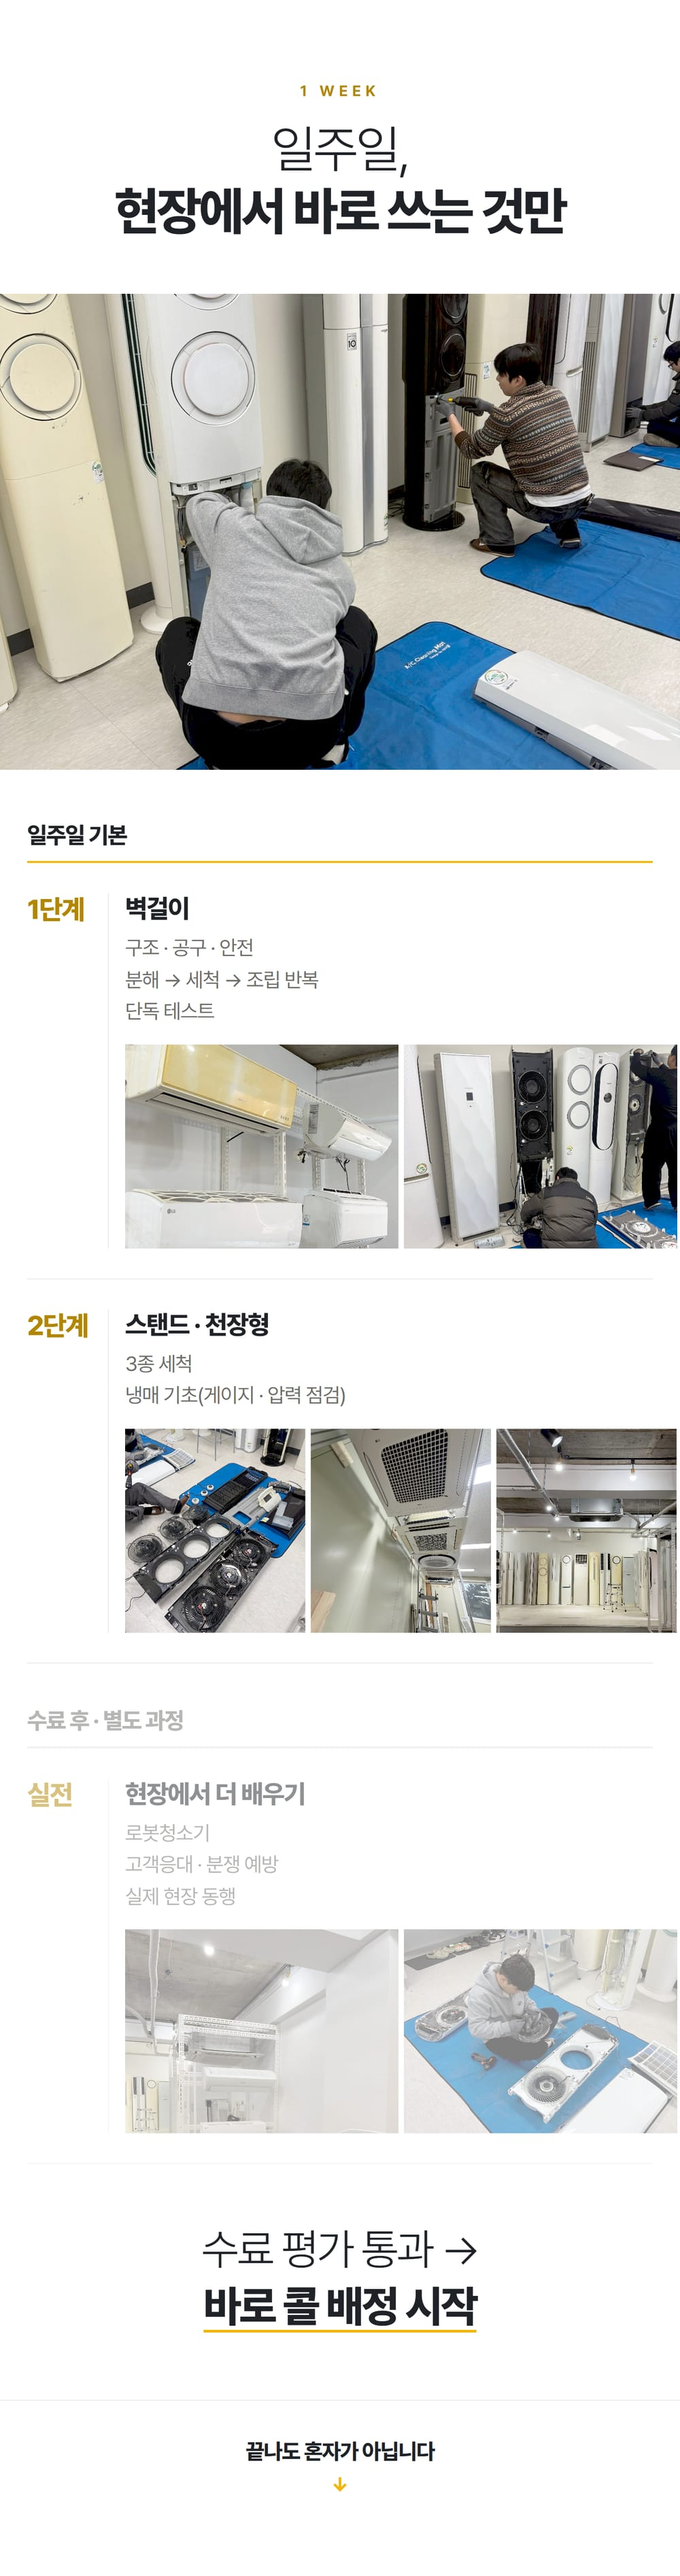
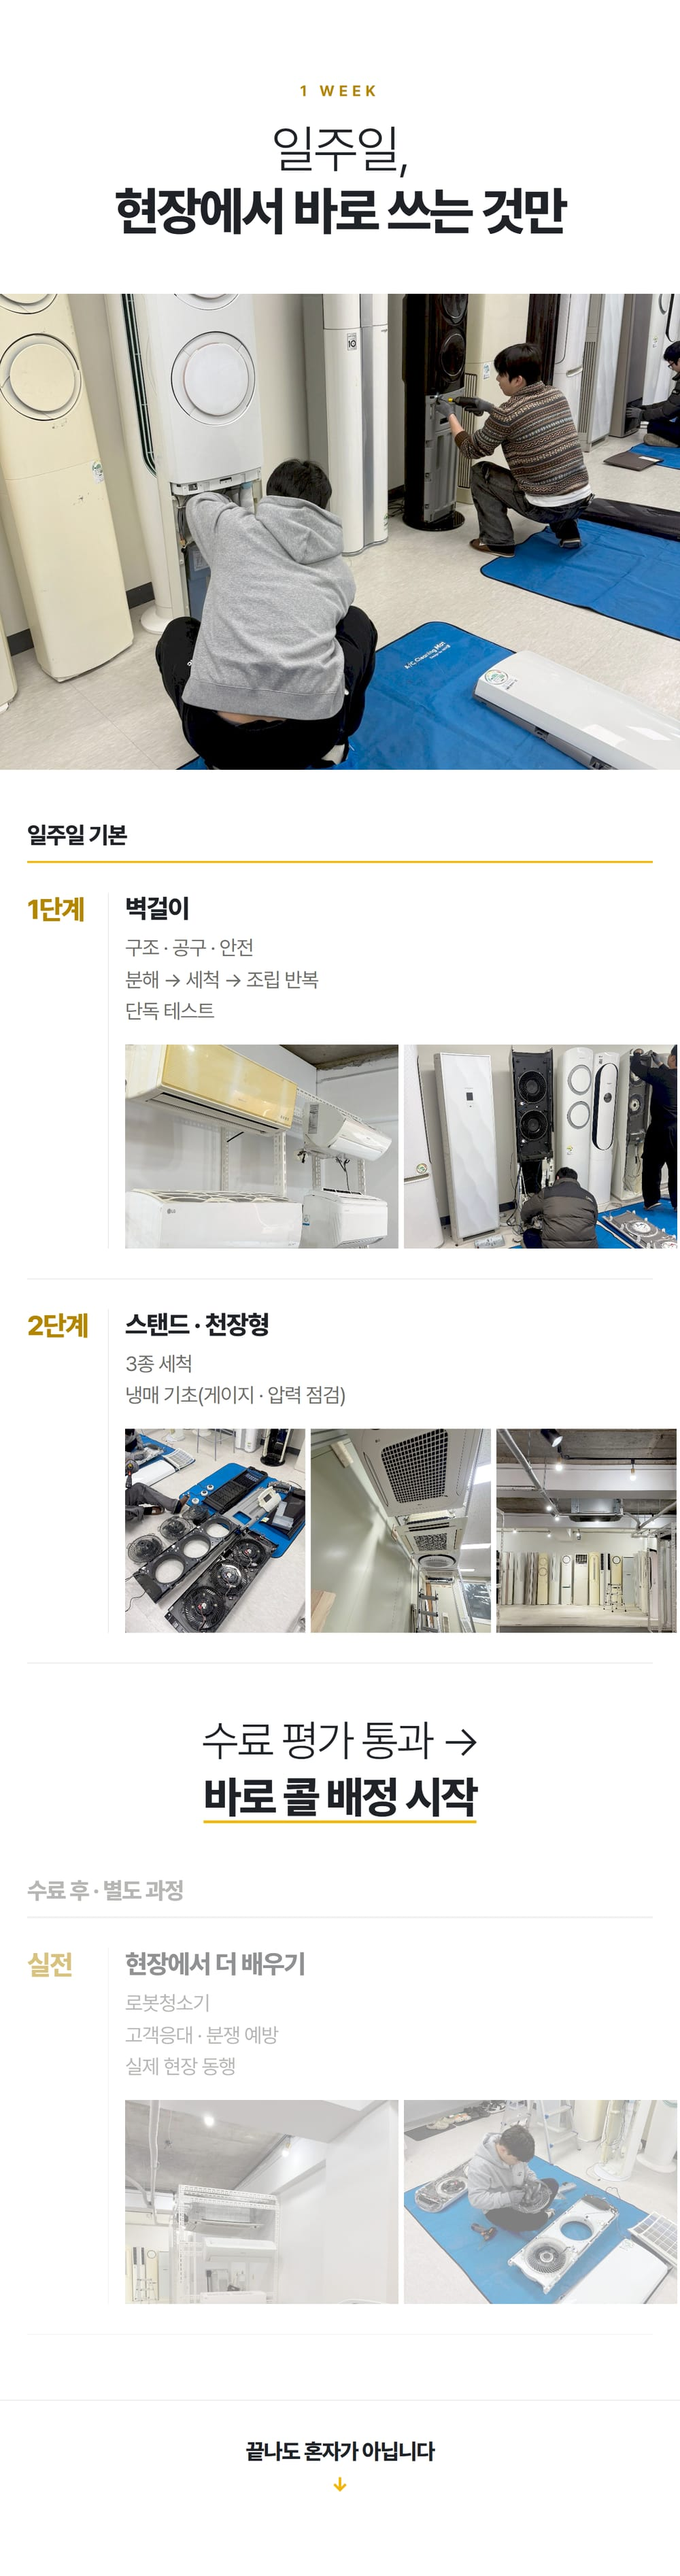
feat: 기사 양성 과정 — 교육비 0원 띠를 HTML 로 (착지 · 빛 스침 애니메이션), 히어로 s1a/s1b 분리, s8 순서 정리

Changed region(s): [[0.155, 0.6542, 1.0, 0.9034], [0.031, 0.6542, 0.124, 0.7788], [0.155, 0.6542, 0.186, 0.6853]]

diff --git a/public/academy.html b/public/academy.html
@@ -49,6 +49,21 @@ a{color:inherit;text-decoration:none}
 .tour .under{margin-top:clamp(16px,3.6vw,36px);font-size:clamp(14px,3vw,30px);font-weight:700;letter-spacing:-.03em}
 @media (prefers-reduced-motion:reduce){.spot{animation:none}}
 
+
+/* ===== 교육비 0원 띠 (HTML) — 움직임은 두 가지뿐: 처음 보일 때 "0원" 착지(0.6초, 1회) · 4초마다 흰 빛 한 번 스침 ===== */
+.fee-band{position:relative;overflow:hidden;background:#F2B705;color:#1F2328;text-align:center;padding:clamp(48px,14vw,72px) 12px clamp(48px,14vw,72px)}
+.fee-top{display:flex;align-items:baseline;justify-content:center;gap:clamp(8px,1.6vw,16px);line-height:1;white-space:nowrap}
+.fee-k{font-weight:500;font-size:clamp(26px,10vw,44px);letter-spacing:-.04em}
+.fee-zero{display:inline-block;font-weight:900;font-size:clamp(84px,33vw,150px);letter-spacing:-.05em;line-height:.9}
+.fee-sub{margin-top:clamp(14px,3vw,24px);font-weight:700;font-size:clamp(16px,5vw,28px);letter-spacing:-.05em;white-space:nowrap}
+@keyframes feeDrop{0%{transform:translateY(-55%) scale(1.25);opacity:0}60%{transform:translateY(4%) scale(.97);opacity:1}80%{transform:translateY(-2%) scale(1.02)}100%{transform:none;opacity:1}}
+@keyframes feeShine{0%{left:-45%}22%,100%{left:120%}}
+.fee-band.ready .fee-zero{opacity:0}
+.fee-band.on .fee-zero{animation:feeDrop .6s cubic-bezier(.2,.8,.3,1.2) both}
+.fee-band::after{content:"";position:absolute;top:0;bottom:0;left:-45%;width:30%;background:linear-gradient(100deg,rgba(255,255,255,0),rgba(255,255,255,.55),rgba(255,255,255,0));pointer-events:none;opacity:0}
+.fee-band.on::after{opacity:1;animation:feeShine 4s ease-in-out .9s infinite}
+@media (prefers-reduced-motion:reduce){.fee-band.ready .fee-zero{opacity:1}.fee-band.on .fee-zero,.fee-band.on::after{animation:none}.fee-band::after{display:none}}
+
 /* 상단 바 */
 .top{position:sticky;top:0;z-index:30;background:rgba(255,255,255,.97);display:flex;align-items:center;justify-content:space-between;padding:12px 18px;border-bottom:1px solid var(--line)}
 .logo{font-weight:900;font-size:19px;color:var(--deep)}
@@ -124,8 +139,14 @@ footer b{color:#4A5263}
   <a class="top-tel" href="tel:18662003"><span class="live"><i></i>상담 가능</span>1866-2003</a>
 </header>
 
-<!-- 이미지 파일: public/img/academy/s1.jpg ~ s13.jpg (+ 교육장 투어 사진 img/academy/tour/) -->
-<div class="sec" data-img="img/academy/s1.jpg" data-w="1000" data-h="1968" data-alt="에어컨 기사, 고수익 월 1,000만원 이상, 일주일이면 시작합니다. 교육비 0원. 일 가르쳐 드리고, 일감까지 드립니다" data-label="S1 히어로"></div>
+<!-- 이미지 파일: public/img/academy/s1a · s1b · s2 ~ s13.jpg (+ 교육장 투어 사진 img/academy/tour/) -->
+<div class="sec" data-img="img/academy/s1a.jpg" data-w="1000" data-h="1381" data-alt="에어컨 기사, 고수익 월 1,000만원 이상, 일주일이면 시작합니다" data-label="S1a 히어로"></div>
+<!-- 교육비 0원 띠 (HTML — 화면에 보일 때 "0원" 이 툭 떨어져 자리 잡고, 4초마다 흰 빛이 한 번 스침) -->
+<div class="fee-band" id="feeBand">
+  <p class="fee-top"><span class="fee-k">교육비</span><b class="fee-zero">0원</b></p>
+  <p class="fee-sub">일 가르쳐 드리고, 일감까지 드립니다</p>
+</div>
+<div class="sec" data-img="img/academy/s1b.jpg" data-w="1000" data-h="525" data-alt="교육비 0원, 일감은 저희가, 교육장 상시 개방" data-label="S1b 히어로 아래"></div>
 <a class="tel-band" href="tel:18662003">
   <span class="ico"><i></i><svg width="26" height="26" viewBox="0 0 24 24" fill="#1F2328"><path d="M6.6 10.8a15.1 15.1 0 0 0 6.6 6.6l2.2-2.2a1 1 0 0 1 1-.25 11.4 11.4 0 0 0 3.6.57 1 1 0 0 1 1 1V20a1 1 0 0 1-1 1A17 17 0 0 1 3 4a1 1 0 0 1 1-1h3.5a1 1 0 0 1 1 1c0 1.25.2 2.45.57 3.57a1 1 0 0 1-.25 1z"/></svg></span>
   <span><small>과정 상담 · 지금 누르면 바로 연결</small><b>1866-2003</b></span>
@@ -159,7 +180,7 @@ footer b{color:#4A5263}
 <div class="sec" data-img="img/academy/s3.jpg" data-w="1000" data-h="2030" data-alt="요즘, 이런 생각 해보셨나요? 열심히 하는데 월급은 그대로다, 몸 쓰는 건 자신 있는데 써먹을 데가 없다, 내 기술 하나만 있으면 좋겠다, 일한 만큼 가져가고 싶다" data-label="S3 공감"></div>
 <a class="tel-band" href="#apply2">
   <span class="ico go"><svg width="26" height="26" viewBox="0 0 24 24" fill="none" stroke="#1F2328" stroke-width="2.5"><path d="M5 12h14M13 6l6 6-6 6"/></svg></span>
-  <span><small>하루 안에 전화로 과정 안내</small><b>지원하기</b></span>
+  <span><small>교육비 0원 · 하루 안에 전화 안내</small><b>지원하기</b></span>
 </a>
 <div class="sec" data-img="img/academy/s4.jpg" data-w="1000" data-h="1658" data-alt="에어컨은 매년 다시 더러워집니다. 실제 현장 사진: 세척 전, 세척 중, 세척 후" data-label="S4 왜 이 일"></div>
 <div class="sec" data-img="img/academy/s5.jpg" data-w="1000" data-h="3251" data-alt="왜 올데이케어여야 할까요? 학원은 돈 내고 배우고 수료증으로 끝, 올데이케어는 교육비 0원으로 배우고 일감까지. 6단계 중 기사님은 현장 작업 하나만. 배우는 곳이 아니라 일하는 곳에서 배웁니다" data-label="S5 왜 올데이케어"></div>
@@ -277,6 +298,14 @@ document.querySelectorAll('.apply .card').forEach(c=>{c.classList.add('reveal');
   }));
   document.addEventListener('click',e=>{ if(!e.target.closest('.spot')) strip.querySelectorAll('.spot.on').forEach(x=>x.classList.remove('on')); });
   requestAnimationFrame(step);
+})();
+
+
+/* 교육비 0원 띠: 화면에 보이는 순간 한 번만 시작 */
+(function(){
+  const band=document.getElementById('feeBand'); if(!band) return;
+  band.classList.add('ready');
+  new IntersectionObserver((es,ob)=>es.forEach(e=>{if(e.isIntersecting){band.classList.add('on'); ob.disconnect();}}),{threshold:.5}).observe(band);
 })();
 
 /* 하단 '지원하기' : 지금 위치 아래쪽 폼으로, 없으면 첫 폼으로 */

diff --git a/design/academy/sections/s8.html b/design/academy/sections/s8.html
@@ -15,7 +15,7 @@
   .s8 .wk p { margin-top: 12px; font-size: 30px; line-height: 1.55; letter-spacing: -0.035em; color: var(--sub); }
   .s8 .wk .ph { display: flex; gap: 8px; margin-top: 26px; }
   .s8 .wk .ph img { display: block; height: 300px; object-fit: cover; }
-  .s8 .big { margin-top: 84px; font-size: 64px; line-height: 1.3; letter-spacing: -0.045em; font-weight: 800; color: var(--ink-deep); }
+  .s8 .big { margin-top: 72px; font-size: 64px; line-height: 1.3; letter-spacing: -0.045em; font-weight: 800; color: var(--ink-deep); }
   .s8 .big .l { font-weight: 300; }
   .s8 .small { margin-top: 40px; font-size: 28px; letter-spacing: -0.03em; color: var(--sub); }
 </style></head>
@@ -32,13 +32,13 @@
       <div class="wk"><div class="n">2단계</div><div class="b"><b>스탠드 · 천장형</b><p>3종 세척<br>냉매 기초(게이지 · 압력 점검)</p><div class="ph"><img src="../photos/v4_r16.jpg" alt="" style="width:265px"><img src="../photos/v4_r20.jpg" alt="" style="width:265px"><img src="../photos/v4_r22.jpg" alt="" style="width:265px"></div></div></div>
     </div>
   </div>
+  <p class="big"><span class="l">수료 평가 통과 →</span><br><span class="uline">바로 콜 배정 시작</span></p>
   <div class="grp after">
     <p class="gh">수료 후 · 별도 과정</p>
     <div class="weeks">
       <div class="wk"><div class="n">실전</div><div class="b"><b>현장에서 더 배우기</b><p>로봇청소기<br>고객응대 · 분쟁 예방<br>실제 현장 동행</p><div class="ph"><img src="../photos/v4_r24.jpg" alt="" style="width:402px"><img src="../photos/v4_r15.jpg" alt="" style="width:402px"></div></div></div>
     </div>
   </div>
-  <p class="big"><span class="l">수료 평가 통과 →</span><br><span class="uline">바로 콜 배정 시작</span></p>
   <div class="next"><p>끝나도 혼자가 아닙니다</p><i>↓</i></div>
 </section>
 </body></html>

diff --git a/design/academy/sections/s1a.html b/design/academy/sections/s1a.html
@@ -1,0 +1,22 @@
+<!doctype html>
+<html lang="ko"><head><meta charset="utf-8"><link rel="stylesheet" href="style.css">
+<style>
+  .s1a { padding-top: 0; padding-bottom: 72px; }
+  .s1a .photo { height: 900px; object-position: center 22%; }
+  .s1a .head { padding: 76px 30px 0; }
+  .s1a .title { font-size: 76px; line-height: 1.22; }
+  .s1a .title .l { font-weight: 300; }
+  .s1a .basis { margin-top: 40px; font-size: 20px; font-weight: 500; letter-spacing: -0.01em; color: var(--sub); }
+  .s1a .cols { display: grid; grid-template-columns: repeat(3, 1fr); margin: 64px 40px 0; border-top: 1px solid var(--line); border-bottom: 1px solid var(--line); }
+  .s1a .cols div { padding: 34px 4px; font-size: 30px; font-weight: 700; letter-spacing: -0.045em; color: var(--ink-deep); }
+  .s1a .cols div + div { border-left: 1px solid var(--line); }
+</style></head>
+<body>
+<section class="sec s1a">
+  <img class="full photo" src="../photos/h1_bright.png" alt="">
+  <div class="head">
+    <p class="eyebrow">ALLDAYCARE TECHNICIAN PROGRAM</p>
+    <h1 class="title"><span class="l">에어컨 기사,</span><br><span class="uline">고수익</span> 월 1,000만원 이상<br><span class="l">일주일이면 시작합니다</span></h1>
+  </div>
+</section>
+</body></html>

diff --git a/design/academy/sections/s1b.html b/design/academy/sections/s1b.html
@@ -1,0 +1,19 @@
+<!doctype html>
+<html lang="ko"><head><meta charset="utf-8"><link rel="stylesheet" href="style.css">
+<style>
+  .s1b { padding-top: 64px; }
+  .s1b .photo { height: 900px; object-position: center 22%; }
+  .s1b .head { padding: 76px 30px 0; }
+  .s1b .title { font-size: 76px; line-height: 1.22; }
+  .s1b .title .l { font-weight: 300; }
+  .s1b .basis { margin-top: 40px; font-size: 20px; font-weight: 500; letter-spacing: -0.01em; color: var(--sub); }
+  .s1b .cols { display: grid; grid-template-columns: repeat(3, 1fr); margin: 0 40px 0; border-top: 1px solid var(--line); border-bottom: 1px solid var(--line); }
+  .s1b .cols div { padding: 34px 4px; font-size: 30px; font-weight: 700; letter-spacing: -0.045em; color: var(--ink-deep); }
+  .s1b .cols div + div { border-left: 1px solid var(--line); }
+</style></head>
+<body>
+<section class="sec s1b">
+  <div class="cols"><div>교육비 0원</div><div>일감은 저희가</div><div>교육장 상시 개방</div></div>
+  <div class="next"><p>정말일까요? 숫자로 보여드립니다</p><i>↓</i></div>
+</section>
+</body></html>
